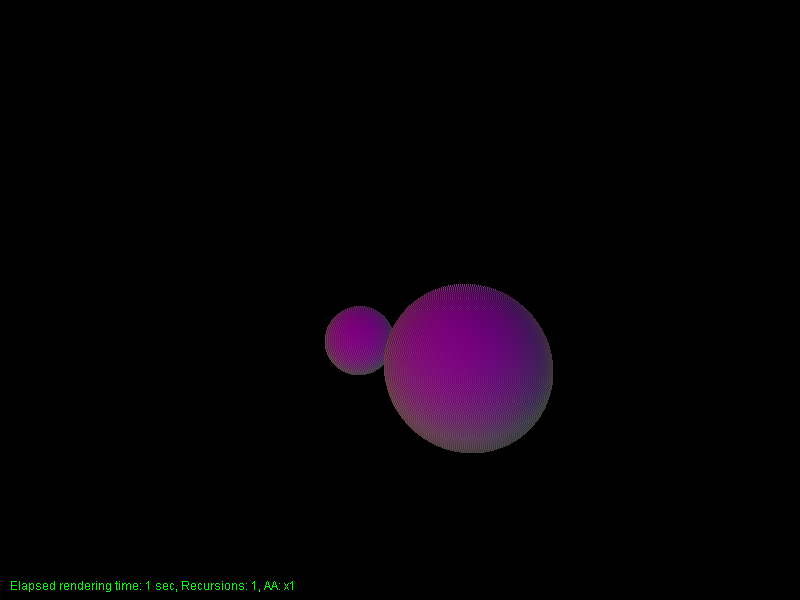
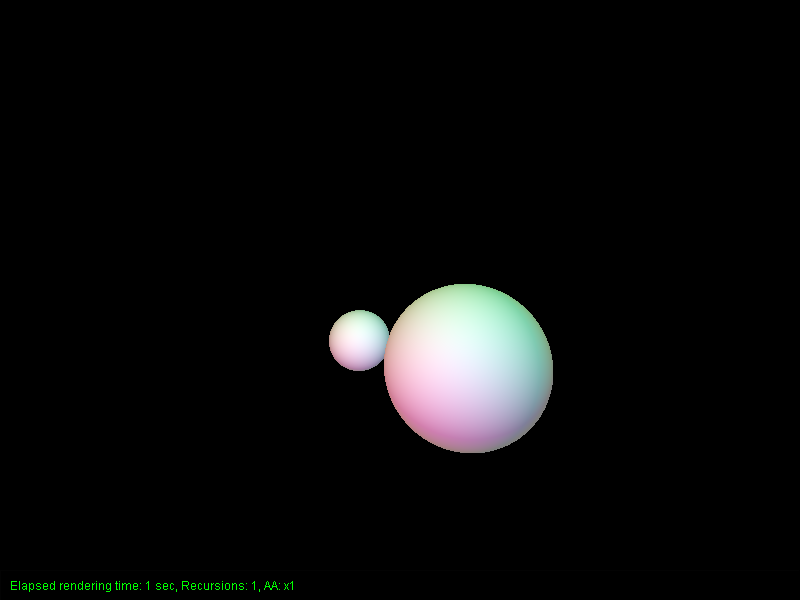
fixed lighting / lambert

Changed region(s): [[0.4062, 0.45, 0.7188, 0.78]]

diff --git a/VCG_Raytracer/src/scene/material/Lambert.java b/VCG_Raytracer/src/scene/material/Lambert.java
@@ -7,19 +7,24 @@ import utils.algebra.Vec3;
 
 public class Lambert extends Material {
 
-    public Lambert(RgbColor _ambientLight, float _ambientCoefficent, RgbColor _diffuseLight, float _diffuseCoefficent) {
-        super(_ambientLight, _diffuseLight, _ambientCoefficent, _diffuseCoefficent);
+    protected RgbColor ambient;
+
+    public Lambert(RgbColor _ambientLight, float _ambientCoefficent, float _diffuseCoefficent) {
+        super(_ambientLight, _ambientCoefficent, _diffuseCoefficent);
+        ambient = _ambientLight.multScalar(_ambientCoefficent);
     }
 
-    public RgbColor getRGB(Light _light, Intersection _intersection) {
+    public RgbColor getAmbient() {
+        return ambient;
+    }
+
+    public RgbColor getDiffuse(Light _light, Intersection _intersection) {
         Vec3 lightPosition = _light.getPosition();
         Vec3 lightVector = _intersection.getIntersectionPoint().sub(lightPosition).normalize();
         Vec3 normal = _intersection.getNormal().normalize();
 
-        RgbColor ambient = mAmbientLight.multScalar(mAmbientCoefficent);
-        RgbColor diffuse = _light.getColor().multScalar(mDiffuseCoefficent).multScalar(normal.scalar(lightVector));
+        return _light.getColor().multScalar(mDiffuseCoefficent).multScalar(normal.scalar(lightVector));
+        //      Ip              *           kd                   *   (       N       .       L       )
 
-        return ambient.add(diffuse);
     }
-
 }

diff --git a/VCG_Raytracer/src/scene/material/Material.java b/VCG_Raytracer/src/scene/material/Material.java
@@ -11,9 +11,8 @@ public abstract class Material {
     protected float mAmbientCoefficent;
     protected float mSpecularCoefficent;
 
-    public Material(RgbColor mAmbientLight, RgbColor mDiffuseLight, float mAmbientCoefficent, float mDiffuseCoefficent) {
+    public Material(RgbColor mAmbientLight, float mAmbientCoefficent, float mDiffuseCoefficent) {
         this.mAmbientLight = mAmbientLight;
-        this.mDiffuseLight = mDiffuseLight;
         this.mDiffuseCoefficent = mDiffuseCoefficent;
         this.mAmbientCoefficent = mAmbientCoefficent;
     }

diff --git a/VCG_Raytracer/src/raytracer/Raytracer.java b/VCG_Raytracer/src/raytracer/Raytracer.java
@@ -157,6 +157,9 @@ public class Raytracer {
             for (int x = 0; x < screenWidth; x++) {
                 float nearest = 99999;
                 Shape nearestShape = null;
+                RgbColor pixelColor = null;
+                RgbColor pixelColorAmbient;
+                RgbColor pixelColorDiffuse = null;
 
                 // First transform pixel to world coordinates
                 deltaX = (float) ((2*(x+0.5)/screenWidth-1)*(width/2));

diff --git a/VCG_Raytracer/src/Main.java b/VCG_Raytracer/src/Main.java
@@ -135,7 +135,7 @@ public class Main {
     }
 
     private static void setupObjects(Scene renderScene) {
-        renderScene.createSphere(new Vec3(-1,1,-8), 0.85f, "lambert");
+        renderScene.createSphere(new Vec3(-1,1,-8), 0.75f, "lambert");
         renderScene.createSphere(new Vec3(1,1,-5), 1.25f, "lambert");
     }
 
